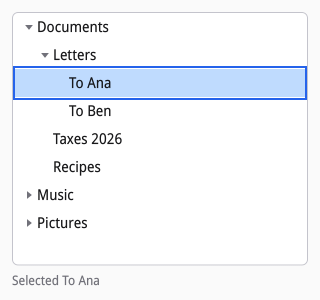
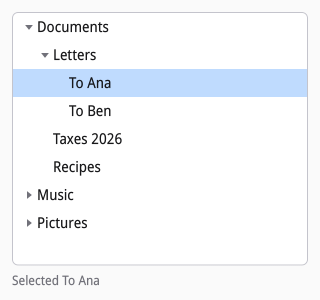
widgets: show focus once on selected rows and text fields
After any key, a view row that was both selected and focused got the
core's focus ring around its selection fill, and a focused text field
got the ring outside its own accent border: two frames for one focus.
Parcel showed both in its message list and its search, command
palette, and compose fields, and could not turn either off, since the
widgets set their visuals again on every apply.

With single selection a view's selected row now has no focus ring
(SIV_VISUAL_NO_FOCUS_RING): when the cursor is on it, its fill marks
where the keys go. Multiple selection, no selection, and a cursor on
an unselected row (Ctrl+arrows, or a selection the application moved)
keep the ring, since there the fill and the focus can differ. Grids
follow the same rule.

A text field keeps its own border, now 2 px in the theme's focus_ring
color, and has no ring. A field takes typing whenever it has focus, so
it shows focus after a click too, as browsers match :focus-visible on
text inputs focused by the pointer; the core's ring alone shows only
after a key. The focus color keeps fields like every other control in
each theme: high contrast dark draws the field's border yellow.

The table ring test uses multiple selection to keep its ring. The
tree and font chooser goldens and the guide's tree and events-search
screenshots lose the second frame. Touches the shared test/ and
docs/guide images only for these tests and screenshots.

Changed region(s): [[0.0312, 0.21, 0.9688, 0.36]]

diff --git a/DESIGN.md b/DESIGN.md
@@ -2187,7 +2187,9 @@ reverse it. "Another toolkit does it this way" is evidence, never a reason.
   - Focus moved by the keyboard shows a ring drawn by the core (2 px,
     outside the node), so keyboard-only use works without widget code;
     focus from a pointer press shows none. Its color is the theme's
-    `focus_ring` (D29). Inside a scroll node the ring stays within the
+    `focus_ring` (D29). Nodes that show focus themselves leave it out
+    (`SIV_VISUAL_NO_FOCUS_RING`, D15): stock text fields and a view's
+    selected row with single selection (D22). Inside a scroll node the ring stays within the
     content's extent (the content box, or the viewport where the content
     is smaller), moving inside the node's box on the sides where it would
     pass that edge, so the viewport's clip cannot cut it: a view row is
@@ -4371,7 +4373,18 @@ reverse it. "Another toolkit does it this way" is evidence, never a reason.
     a radio disabled from the start was the first (D30). Text fields and areas return the editor node
     itself, so every editor function (text, selection, change events)
     works on them unchanged. Text areas and styled-text editors are spell
-    checked, with a context menu on misspelled words (D37).
+    checked, with a context menu on misspelled words (D37). A focused
+    field shows focus one way: its border turns 2 px in the theme's
+    `focus_ring` color, and it has no core ring
+    (`SIV_VISUAL_NO_FOCUS_RING`). A field takes typing whenever it has
+    focus, so it shows focus after a click too, as browsers match
+    `:focus-visible` on text inputs focused by the pointer, and the
+    core's ring shows only after a key (D16). Before, the field's
+    accent border and the ring outside it drew a double border after
+    any key (found by Parcel's search, command palette, and compose
+    fields). The ring's color keeps the field's focus like every other
+    control's in each theme, high contrast included. Alternative: the
+    ring alone (a clicked field would show only its caret).
   - **Driving:** a few functions cover every widget instead of setters per
     widget kind: `siv_widget_set_label`, `siv_widget_set_icon`,
     `siv_widget_set_disabled`, `siv_widget_set_value` and
@@ -4664,7 +4677,14 @@ reverse it. "Another toolkit does it this way" is evidence, never a reason.
     - Selection is a bitset in node data, resized with the count (node
       data of another size replaces the old and keeps what fits); none,
       single, or multiple with Ctrl, Shift, and Ctrl+A. The cursor's row is
-      the focused node (roving focus) and stays bound out of view. An
+      the focused node (roving focus) and stays bound out of view. With
+      single selection a selected row has no focus ring
+      (`SIV_VISUAL_NO_FOCUS_RING`): when focus is on it, its
+      `selection_bg` fill already marks where the keys go, and the ring
+      around the fill read as a second frame (found by Parcel, a mail
+      client). Multiple selection, no selection, and a cursor on an
+      unselected row keep the ring, since there the fill and the focus
+      can be on different rows. An
       empty view's scroll node (the list, tree, or table for assistive
       technology) is focusable while the view has no rows, so focus can
       rest in it: `siv_node_focus` on an empty view did nothing, and an
